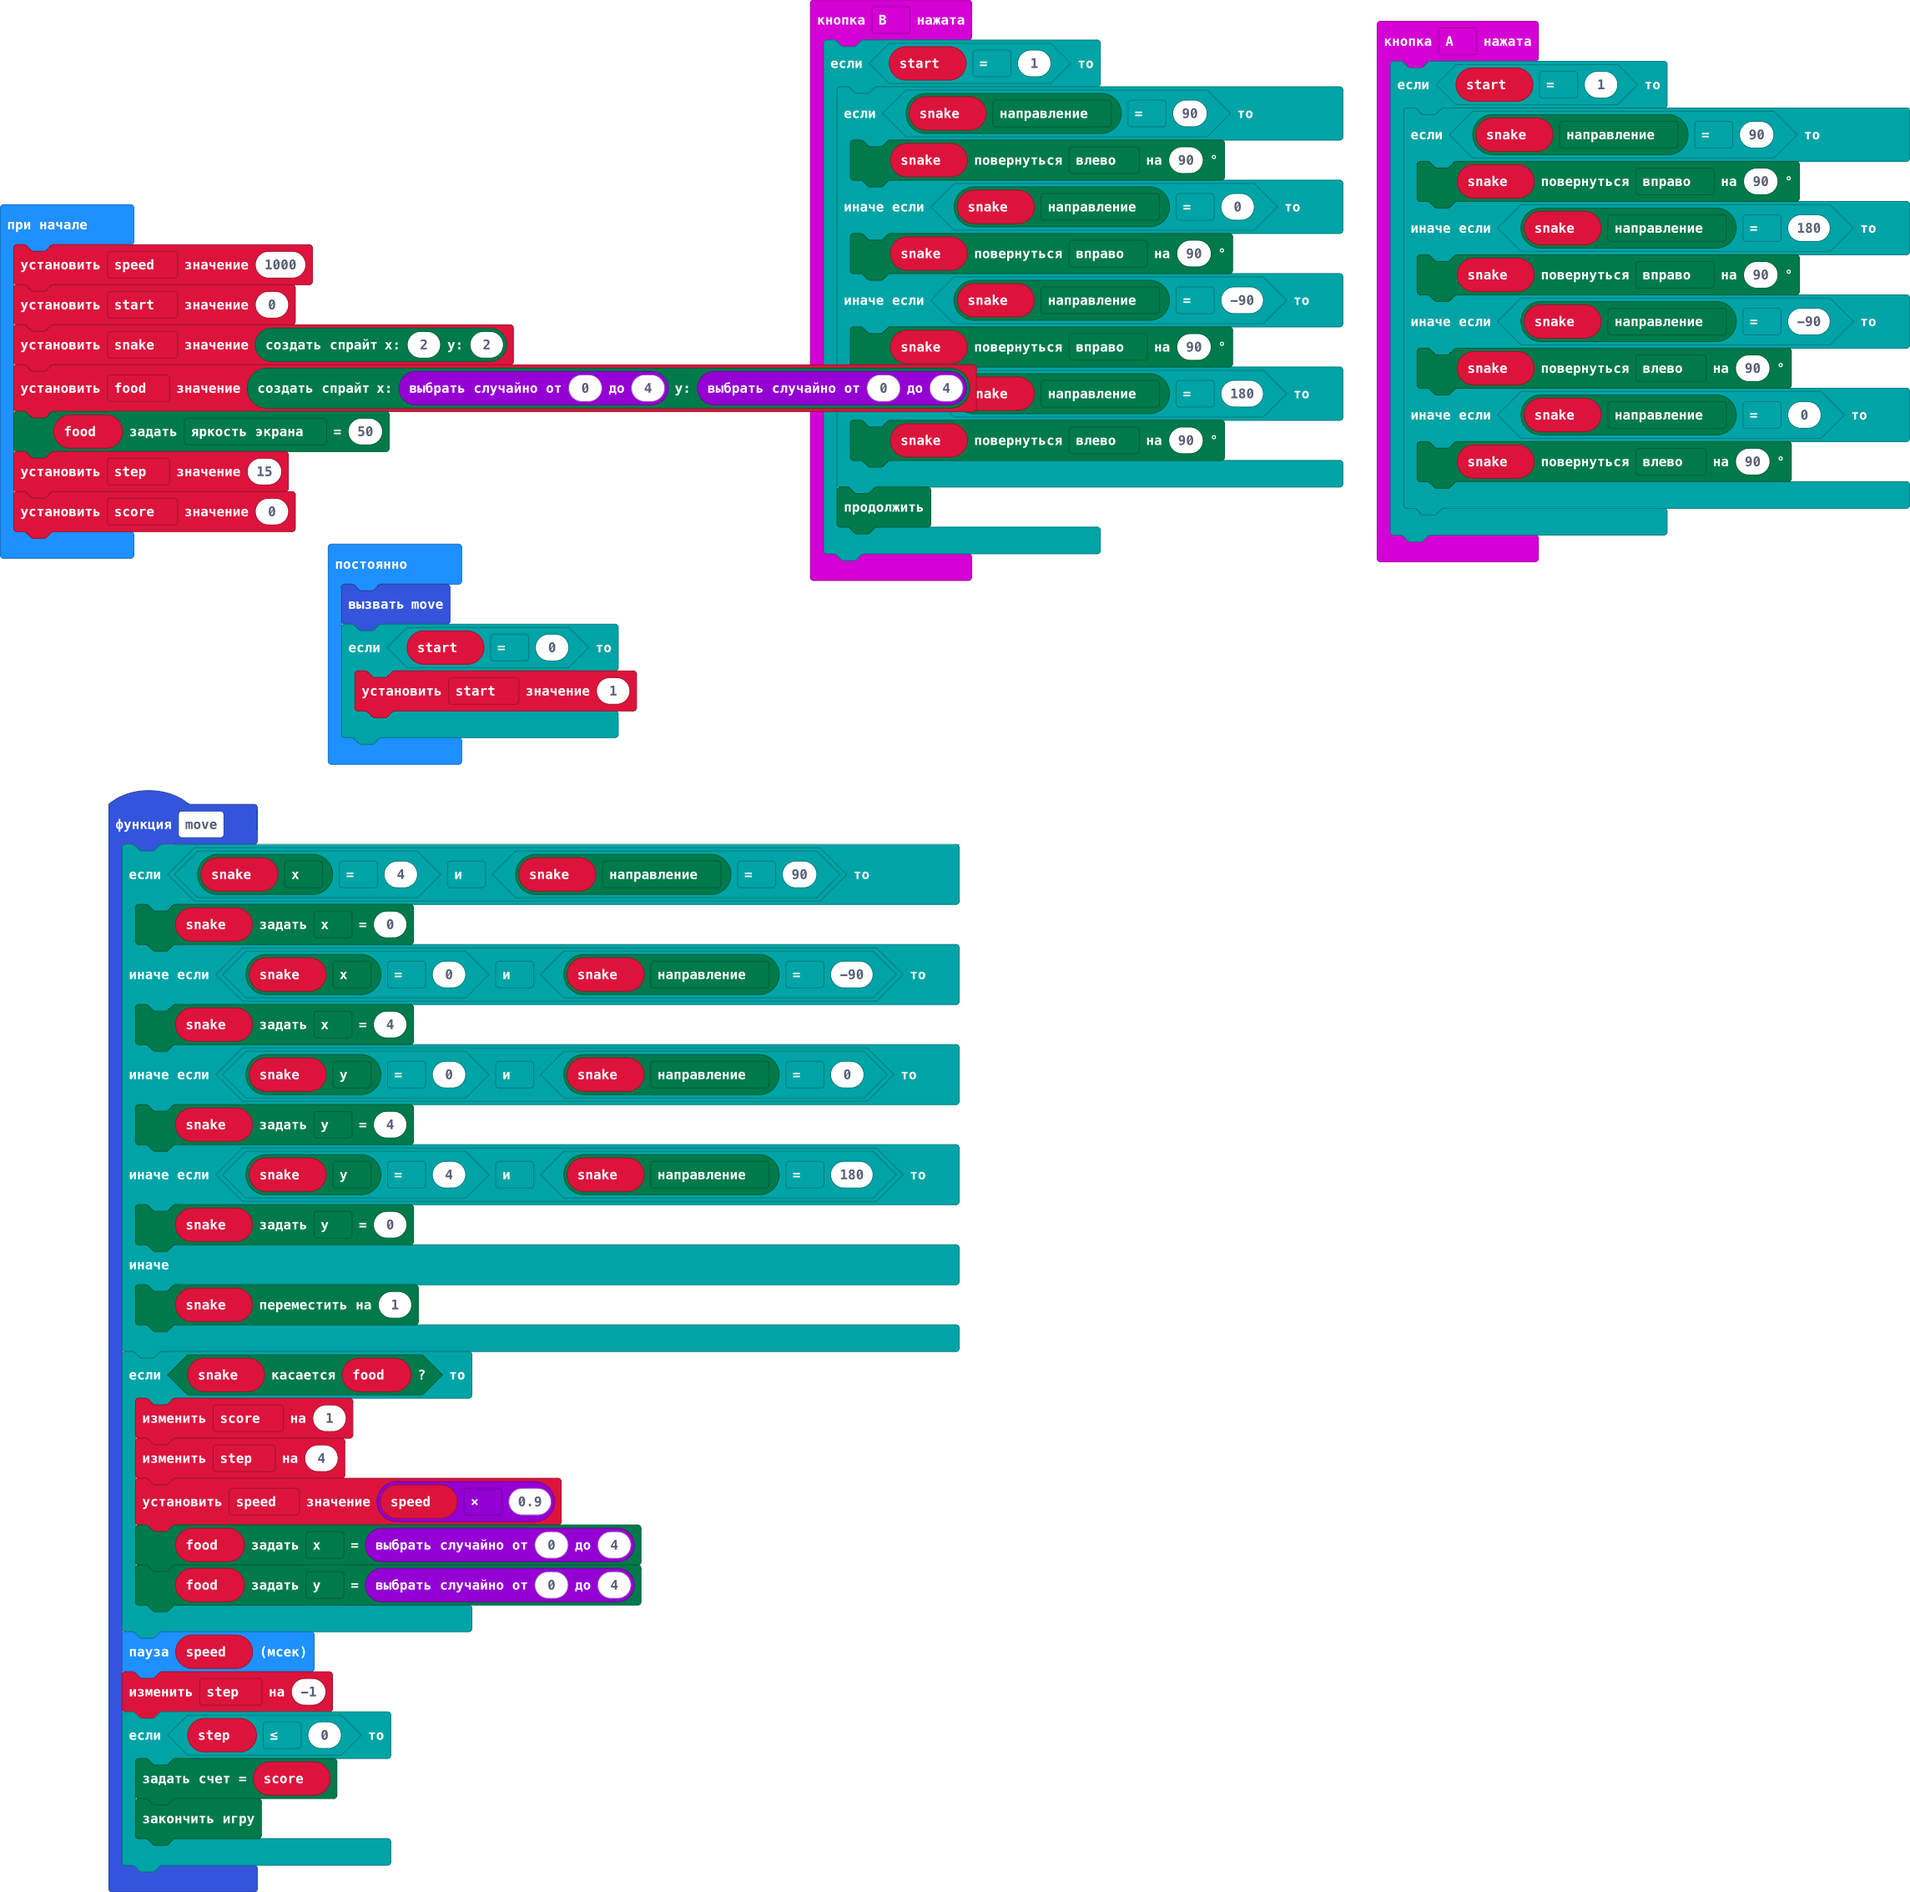
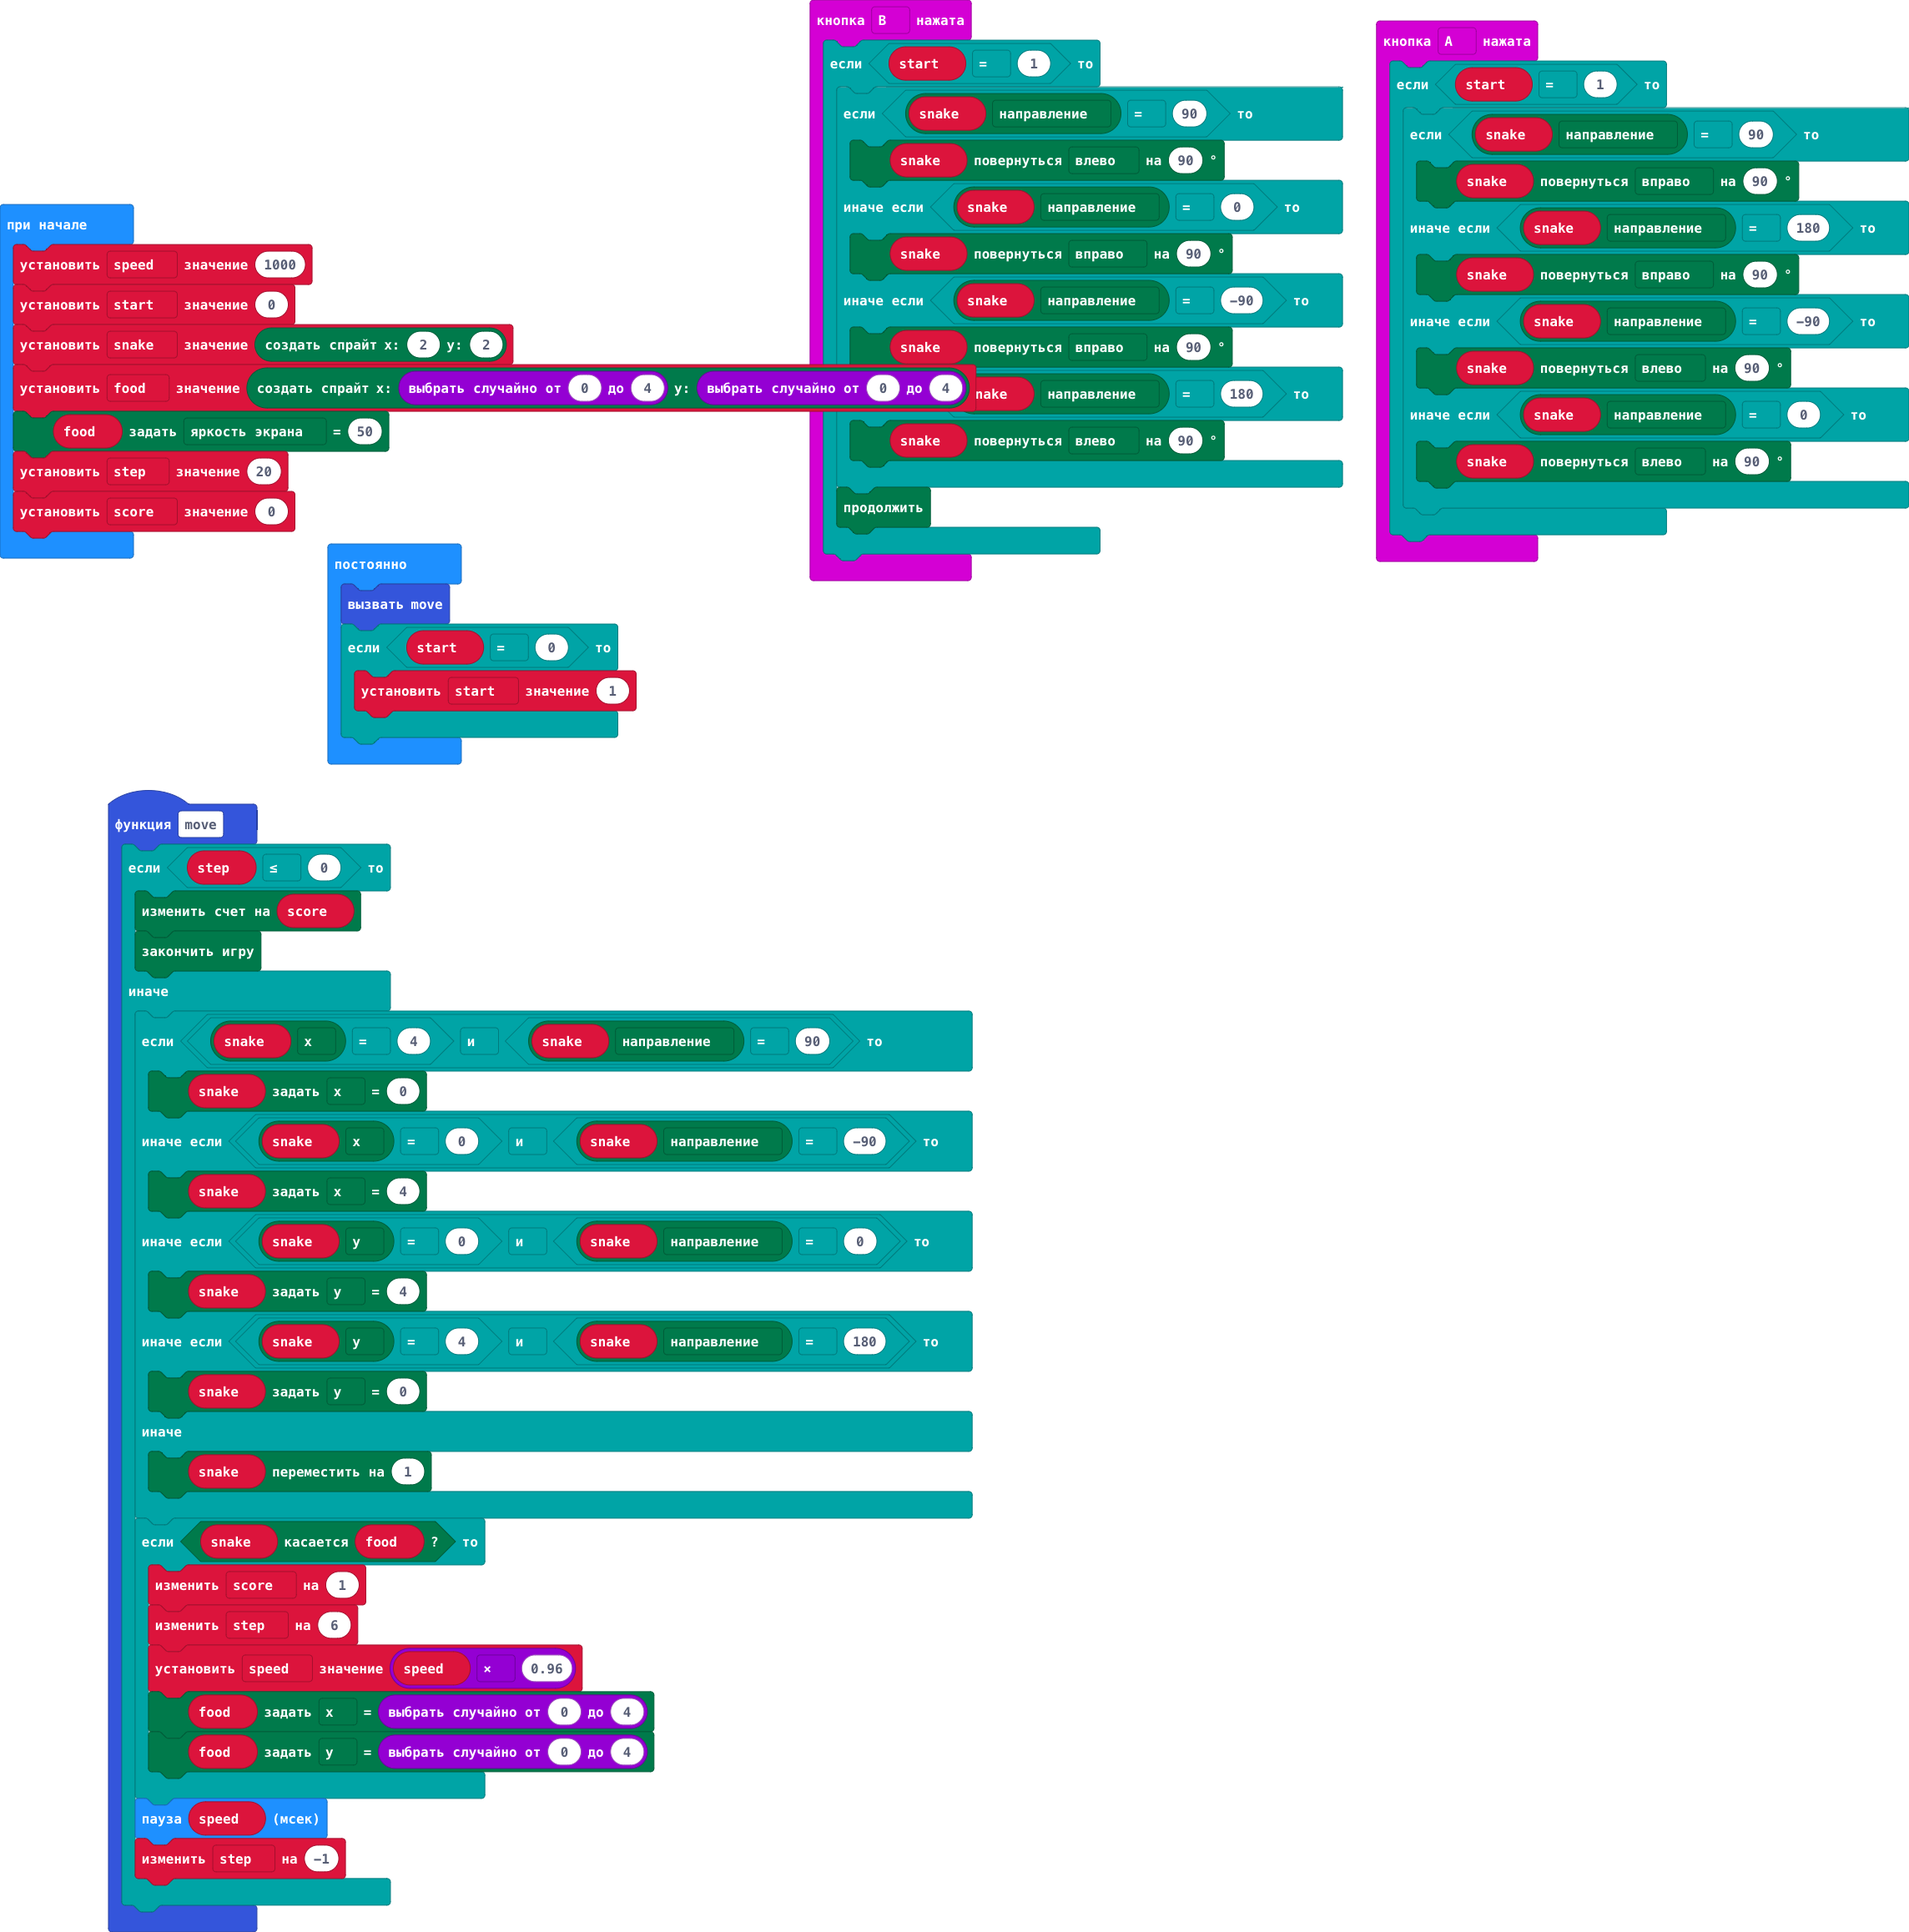
0.96

Changed region(s): [[0.0621, 0.4012, 0.5275, 0.9877], [0.0, 0.0, 0.7137, 0.4012], [0.7137, 0.0, 1.0, 0.3086]]

diff --git a/main.ts b/main.ts
@@ -26,29 +26,30 @@ input.onButtonPressed(Button.B, function () {
     }
 })
 function move () {
-    if (snake.get(LedSpriteProperty.X) == 4 && snake.get(LedSpriteProperty.Direction) == 90) {
-        snake.set(LedSpriteProperty.X, 0)
-    } else if (snake.get(LedSpriteProperty.X) == 0 && snake.get(LedSpriteProperty.Direction) == -90) {
-        snake.set(LedSpriteProperty.X, 4)
-    } else if (snake.get(LedSpriteProperty.Y) == 0 && snake.get(LedSpriteProperty.Direction) == 0) {
-        snake.set(LedSpriteProperty.Y, 4)
-    } else if (snake.get(LedSpriteProperty.Y) == 4 && snake.get(LedSpriteProperty.Direction) == 180) {
-        snake.set(LedSpriteProperty.Y, 0)
-    } else {
-        snake.move(1)
-    }
-    if (snake.isTouching(food)) {
-        score += 1
-        step += 4
-        speed = speed * 0.9
-        food.set(LedSpriteProperty.X, randint(0, 4))
-        food.set(LedSpriteProperty.Y, randint(0, 4))
-    }
-    basic.pause(speed)
-    step += -1
     if (step <= 0) {
-        game.setScore(score)
+        game.addScore(score)
         game.gameOver()
+    } else {
+        if (snake.get(LedSpriteProperty.X) == 4 && snake.get(LedSpriteProperty.Direction) == 90) {
+            snake.set(LedSpriteProperty.X, 0)
+        } else if (snake.get(LedSpriteProperty.X) == 0 && snake.get(LedSpriteProperty.Direction) == -90) {
+            snake.set(LedSpriteProperty.X, 4)
+        } else if (snake.get(LedSpriteProperty.Y) == 0 && snake.get(LedSpriteProperty.Direction) == 0) {
+            snake.set(LedSpriteProperty.Y, 4)
+        } else if (snake.get(LedSpriteProperty.Y) == 4 && snake.get(LedSpriteProperty.Direction) == 180) {
+            snake.set(LedSpriteProperty.Y, 0)
+        } else {
+            snake.move(1)
+        }
+        if (snake.isTouching(food)) {
+            score += 1
+            step += 6
+            speed = speed * 0.96
+            food.set(LedSpriteProperty.X, randint(0, 4))
+            food.set(LedSpriteProperty.Y, randint(0, 4))
+        }
+        basic.pause(speed)
+        step += -1
     }
 }
 let score = 0
@@ -62,7 +63,7 @@ start = 0
 snake = game.createSprite(2, 2)
 food = game.createSprite(randint(0, 4), randint(0, 4))
 food.set(LedSpriteProperty.Brightness, 50)
-step = 15
+step = 20
 score = 0
 basic.forever(function () {
     move()
